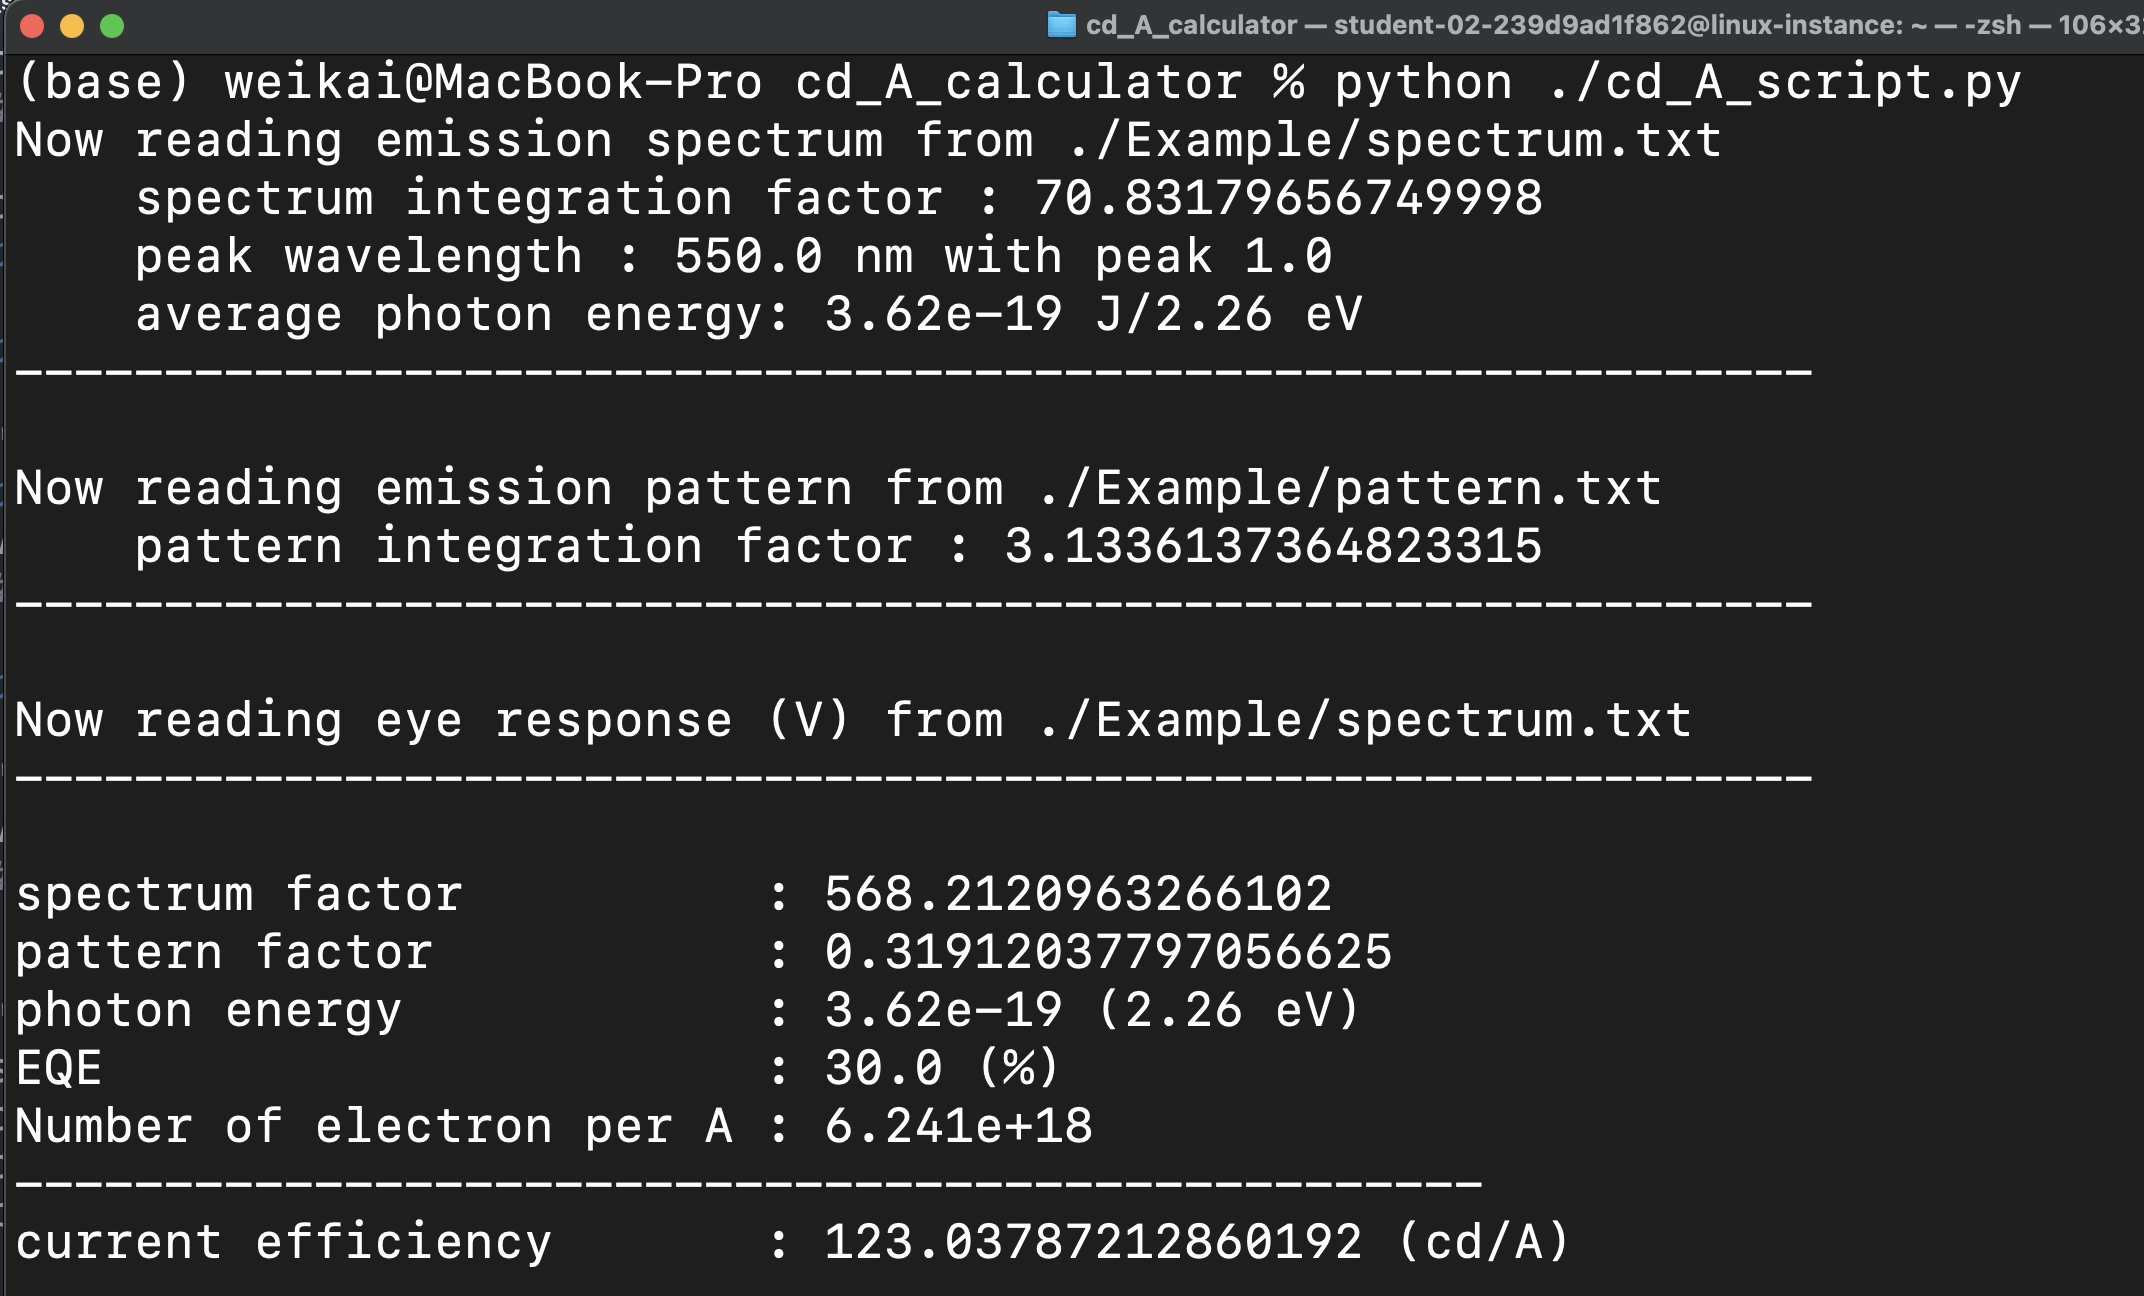
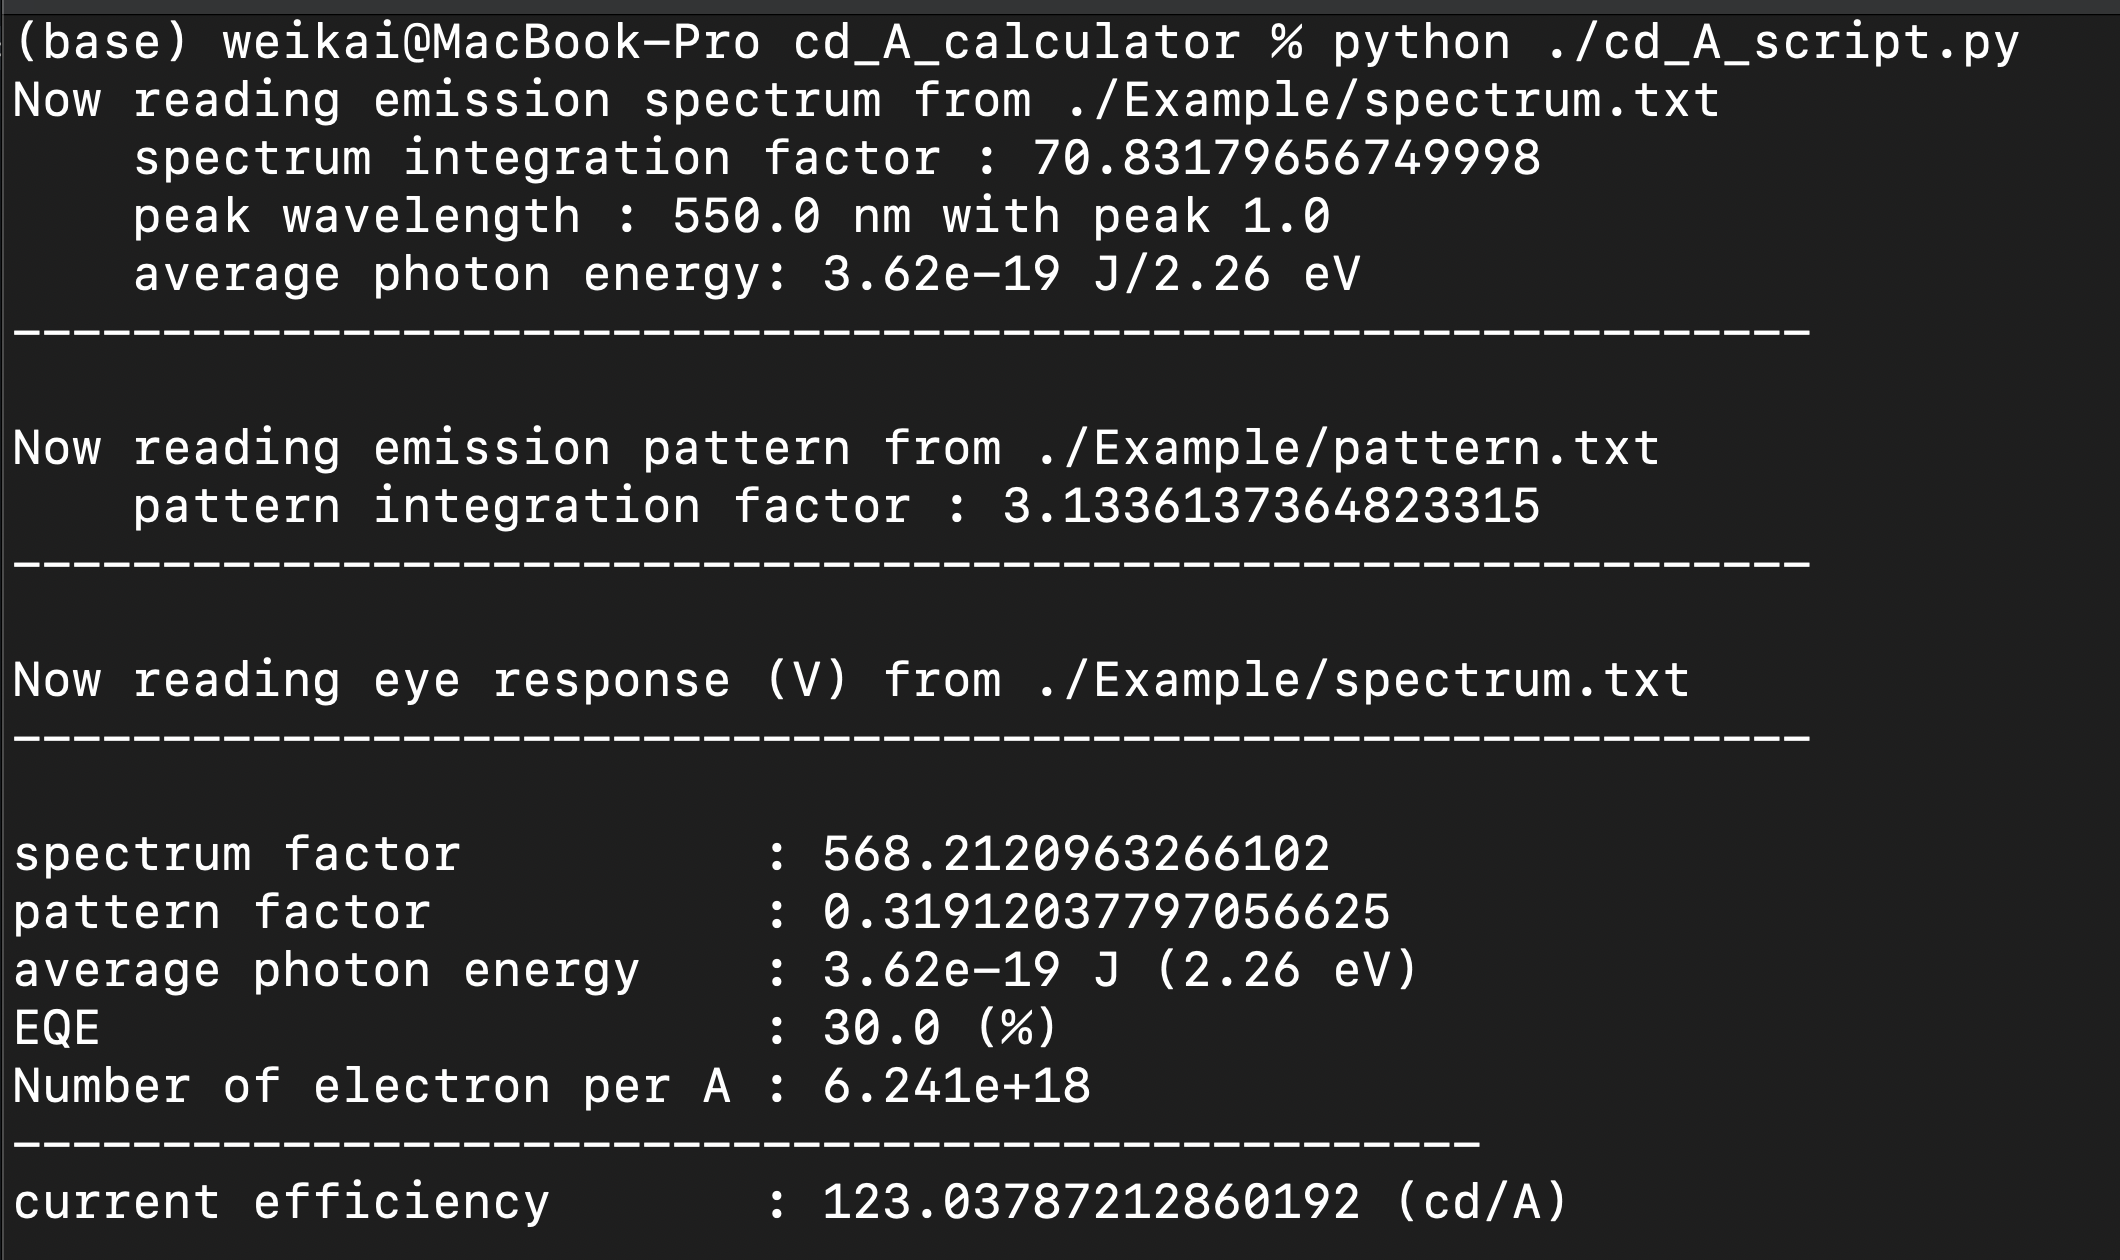
unit

diff --git a/cd_A_script.py b/cd_A_script.py
@@ -89,7 +89,7 @@ cd_A = num_per_Amp * EQE * photon_energy * pattern_factor * spec_factor # [J] * 
 
 print( 'spectrum factor          : {}'.format( spec_factor ) )
 print( 'pattern factor           : {}'.format( pattern_factor ) )
-print( 'photon energy            : {0:<.2e} ({1:<.2f} eV)'.format( photon_energy, photon_energy/1.602e-19 ) )
+print( 'average photon energy    : {0:<.2e} J ({1:<.2f} eV)'.format( photon_energy, photon_energy/1.602e-19 ) )
 print( 'EQE                      : {} (%)'.format( EQE*100 ) )
 print( 'Number of electron per A : {}'.format( num_per_Amp ) )
 print( '-------------------------------------------------')
